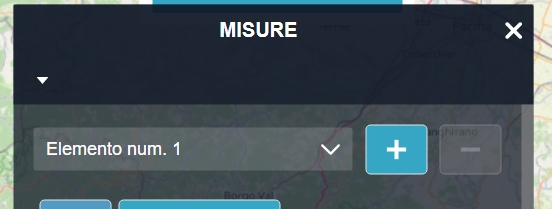
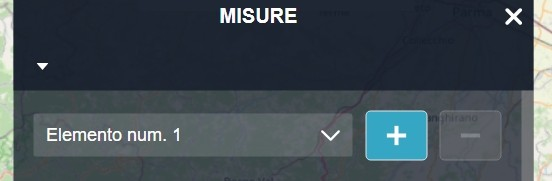
Added new updated screenshots and updated docs to explain transformation and play path features.

diff --git a/wwwroot/help/path-usage.html b/wwwroot/help/path-usage.html
@@ -129,7 +129,7 @@
         <p>Se selezioniamo lo strumento di misura di punti (cliccando sull'icona <img src="img/measure_point.svg"
             alt="Measure points icon" height="24" />), cliccando sulla mappa, verranno aggiunti dei punti corrispondenti alla posizione del cursore al momento del click.</p>
 
-        <p>Una volta definiti i punti desiderati, dal pannello, possiamo visualizzarne l'altitudine e aggiungere a ciascuno di essi una descrizione per attribuirgli un significato (la descrizione di ciascun punto verrà inclusa nel file di esportazione).</p>
+        <p>Una volta definiti i punti desiderati, dal pannello, possiamo visualizzarne l'altitudine e aggiungere a ciascuno di essi una descrizione per attribuirgli un significato (la descrizione di ciascun punto verrà inclusa nel file finale di esportazione).</p>
         <img src="img/measure_point.png" alt="Measure point" class="screenshot img-responsive" />
 
         <h3>Misuratore lineare</h3>
@@ -197,38 +197,51 @@
 
         <p>Il pannello dei grafici si aggiorna automaticamente quando sulla mappa viene modificata in qualche modo una tappa(spostata, rimossa).</p>
 
+        <h2>Trasformazione</h2></p>
+        <p>All'interno del pannello dei grafici è presente un pulsante <b>Trasformazione</b>, che consente di convertire temporaneamente un percorso in un layer, sotto forma di file di catalogo all’interno del <i>workbench</i>. </p>
+        <img src="img/meaure-transform.png" alt="Path transformation" class="screenshot img-responsive" />
+        <p>Una volta trasformato il percorso, cliccando sull’icona con i tre puntini sarà possibile accedere a diverse azioni relative al percorso, tra cui:</p>
+        <img src="img/workbench-catalog-options.png" alt="Workbench catalog options" class="screenshot img-responsive" />
+        <ul>
+          <li>
+            <b>Esporta</b>(vedi sotto): consente di esportare il percorso (o multipercorso) mediante l'apposito pannello. Quindi sarà necessario inserire il nome del file e il relativo formato che si desidera
+            <img src="img/download-panel.png" alt="Download panel" class="screenshot img-responsive" />
+          </li>
+          <li>
+            <b>Avvia percorso (Play Path)</b>(vedi sotto): consente di visualizzare il percorso trasformato sulla mappa;
+            <img src="img/play-path-panel.png" alt="Play Path panel" class="screenshot img-responsive" />
+          </li>
+          <li><b>Percorso</b>: consente di riaprire il pannello di misure per visualizzare i dati del percorso (o multipercorso) in maniera più dettagliata;</li>
+        </ul>
+
         <h2>Esportazione</h2>
-        <p>Nel pannello dei grafici è presente il bottone <b>Download</b> grazie al quale è possibile scaricare uno screenshot del grafico.
-        
-        Nel pannello di misura invece, è presente il bottone <b>Esporta</b> tramite il quale è possibile esportare i dati e le informazioni del percorso(o multipercorso) corrente in GeoJSON, CSV o KML.</p>
+        <h4>Esportazione del grafico di un percorso</h4>
+        <p>Una volta aperto il pannello delle misure, sarà possibile esportare il grafico accedendo al pannello dedicato ai grafici, all’interno del quale si trova il pulsante <b>Download</b>, che consente di scaricare uno screenshot del grafico.</p>
 
-        <img src="img/measure-download.jpg" alt="Path export" class="screenshot img-responsive" />
+        <h4>Esportazione di un percorso in dettaglio</h4>
+        <p>Come già preannunciato, tramite il workbench, è possibile aprire il pannello di download ed esportare il percorso (o multipercorso) in uno dei formati supportati (GeoJSON, CSV, KML o GPX).</p>
 
-        <p>L'esportazione consiste nel salvare uno o più file del formato scelto tra quelli disponibili. Questi file potranno poi essere usati in qualsiasi software GIS (ad esempio QGIS) o essere reimportati in <b>rer3d-map</b> (vedi sotto).</p>
+        <p>L'esportazione consiste nel salvare uno o più file del formato scelto tra quelli disponibili. Questi file potranno poi essere usati in qualsiasi software GIS (ad esempio QGIS) o essere reimportati in <b>rer3d-map</b>:</p>
 
         <p>L'esportazione in CSV salva un file con un nome definito dall'utente, con formato <code>.csv</code> con i dati delle tappe ed eventuali note. I percorsi esportati in CSV saranno caricati dai GIS come layer di punti.
         </p>
 
-        <p>L'esportazione in GeoJSON salva un file con un nome definito dall'utente, con formato <code>.geojson</code> con i dati delle tappe ed eventuali note. I percorsi esportati in GeoJSON saranno caricati dai GIS come layer di linee.</p>
+        <p>L'esportazione in GeoJSON salva un file con un nome definito dall'utente, con formato <code>.geojson</code> con i dati delle tappe ed eventuali note. I percorsi esportati in GeoJSON saranno caricati dai GIS come layer di punti, linee o poligoni.</p>
 
-        <p>L'esportazione in KML salva un file con un nome definito dall'utente, con formato <code>.kml</code> con i dati delle tappe ed eventuali note. I percorsi esportati in KML saranno caricati dai GIS come layer di linee.</p>
+        <p>L'esportazione in GPX salva un file con un nome definito dall'utente, con formato <code>.gpx</code> con i dati delle tappe ed eventuali note. I percorsi esportati in GPX saranno caricati dai GIS come layer di punti o linee (non anche di poligoni a causa di limitazioni del formato).</p>
 
-        <img src="img/measure-download_formats.jpg" alt="Path view" class="screenshot img-responsive" />
+        <p>L'esportazione in KML salva un file con un nome definito dall'utente, con formato <code>.kml</code> con i dati delle tappe ed eventuali note. I percorsi esportati in KML saranno caricati dai GIS come layer di punti, linee o poligoni.</p>
+
+        <h2>Avvia percorso</h2>
+        <p>Il pannello di avvio del percorso permette di visualizzare il tragitto direttamente sulla mappa, facendolo "scorrere" punto per punto. </p>
+        <p>La camera si <b>muove automaticamente</b> lungo tutti i punti campionati fino a raggiungere la fine del percorso. Una volta avviata la riproduzione, è possibile metterla in pausa e riprenderla in un secondo momento, oppure interromperla definitivamente. Per determinare il punto di partenza, viene scelto uno dei due estremi del percorso (inizio o fine), in base a quello più vicino alla posizione attuale della camera.</p>
+        <img src="img/play-path-panel2.png" alt="Play Path panel" class="screenshot img-responsive" />
+        <p>È possibile modificare la <b>velocità</b> di scorrimento del percorso, così da permettere all’utente di adattare la visualizzazione alle proprie esigenze. Inoltre, al primo avvio del percorso (ma non durante la ripresa di uno già in corso), verrà mostrato un <b>countdown</b> per consentire all’utente di prepararsi alla riproduzione.</p>
 
         <h2>Importazione</h2>
         <p>È possibile, in certe condizioni, importare un file da un layer caricato in <b>rer3d-map</b>.</p>
 
         <p>I dati supportati per l'importazioni sono i file di percorsi o multi percorsi che hanno un certo formato, al momento sono supportati i file: <code>.kml</code>, <code>.geojson</code>, <code>.json</code>, <code>.gpx</code> ed infine <code>.csv</code>.</p>
-
-        <img src="img/import_path.jpg" alt="Path import" class="screenshot img-responsive" />
-
-        <p>Cliccando su <b>Percorso</b> dai dati dell'unica geometria del layer viene prodotto e caricato il
-          <em>percorso</em>, di cui sono visibili i dati ed i grafici.
-        </p>
-
-        <p>Se il percorso importato ha valori altitudine, sono usati quelli, altrimenti sono letti dal modello del
-          terreno di <b>rer3d-map</b>.</p>
-
       </div>
 
     </div><!-- End col-md-8 -->
